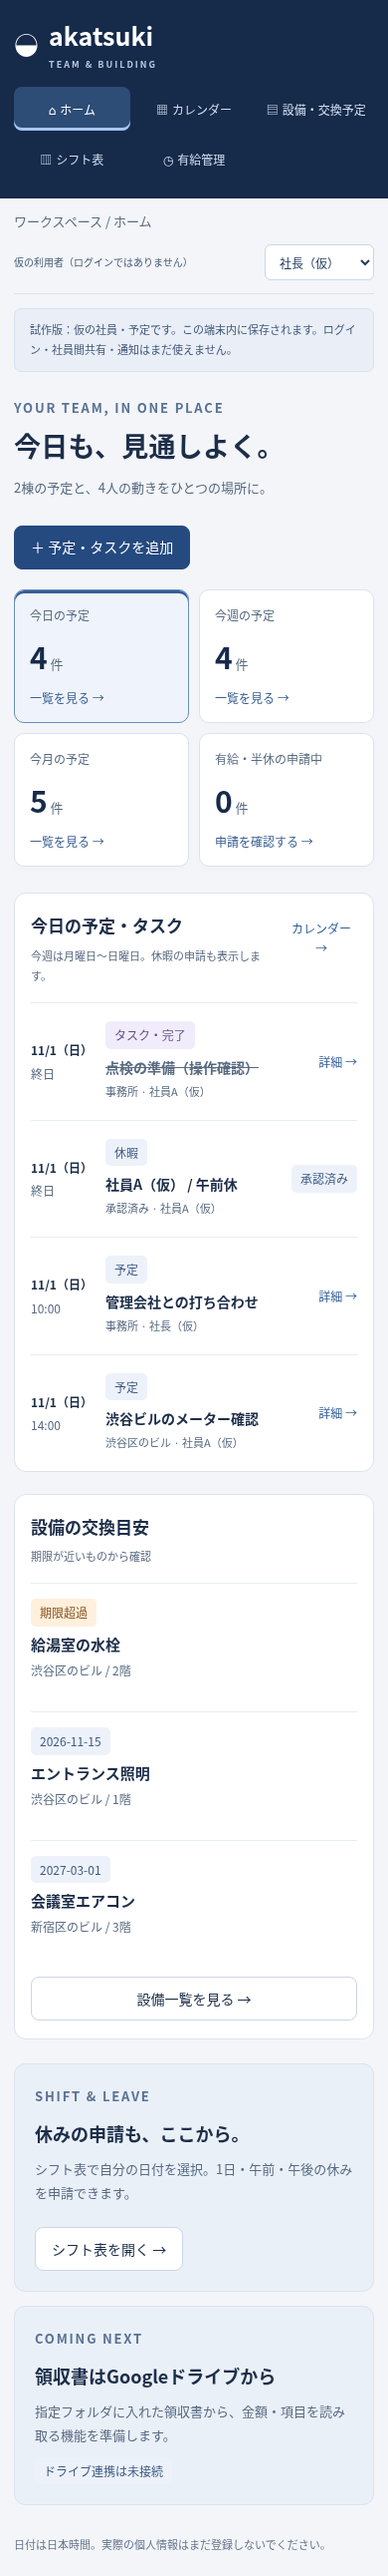
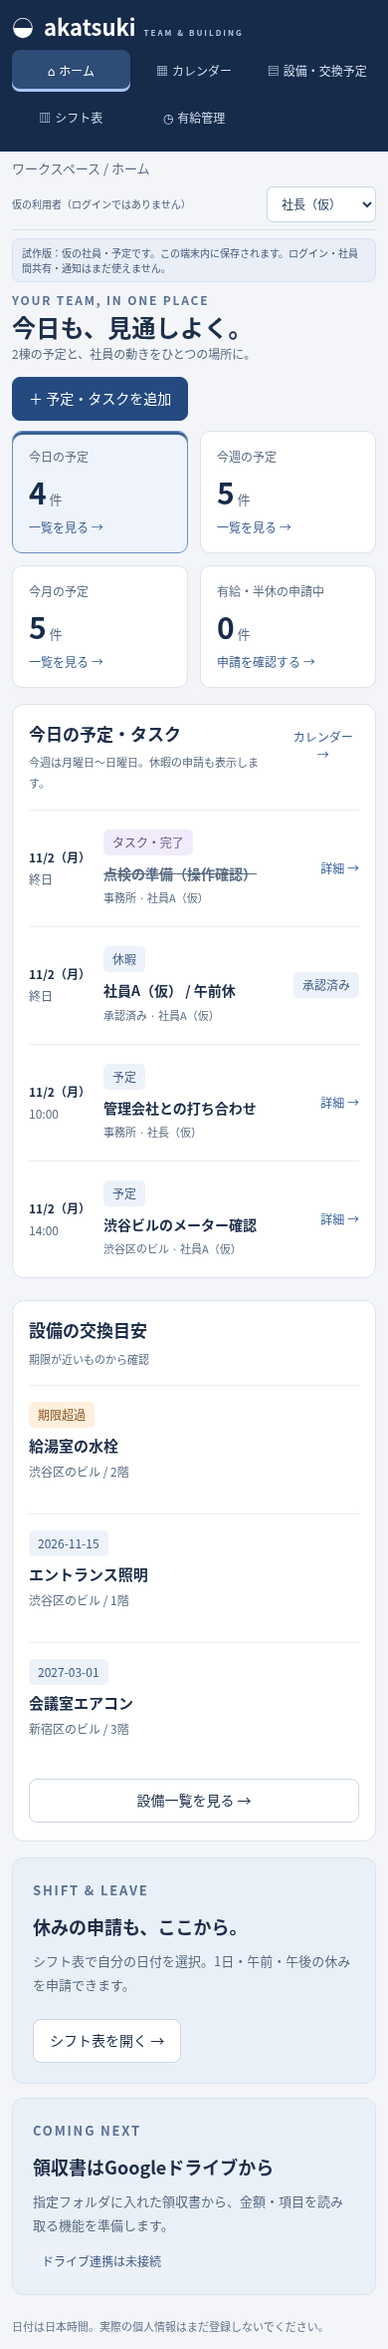
Increase responsive screen information density

diff --git a/src/main.js b/src/main.js
@@ -49,7 +49,7 @@ function leave(){
  return `<section class="heading"><div><p class="eyebrow">PAID LEAVE</p><h1>有給管理</h1><p>シフトの申請を自動で反映。1日休みは1日、午前・午後休は0.5日。</p></div><div class="actions">${isAdmin()?'<button id="grant-settings">付与日数を設定</button>':''}<button id="download-leave">↓ 有給記録をPDF保存</button></div></section><section class="panel"><div class="calendar-toolbar">${monthPicker()}<label>対象者<select id="leave-member" ${isAdmin()?'':'disabled'}>${memberOptions(member)}</select></label></div><p class="help-text">${grant?`管理期間：${grant.start} 〜 ${grant.end}（表示月の1日に適用する期間）`:'表示月に対応する有給日数が未設定です。管理者が設定してください。'}</p><div class="leave-cards">${[['付与日数',grant?.days??'未設定'],['承認済み（予定を含む）',b.approved],['申請中',b.pending],['あと申請できる日数',b.available]].map(([label,value])=>`<div class="card"><span>${label}</span><strong>${value}<small> 日</small></strong></div>`).join('')}</div><p class="help-text">取得済み：${taken}日 / 今後の承認済み：${b.approved-taken}日。残日数は申請中の分も差し引いています。</p>${leaveTable(entries)}</section>${isAdmin()?`<section class="panel section-gap"><div class="panel-title"><div><h2>承認待ちの申請</h2><p>社員全員の申請を、月をまたいで確認できます。</p></div></div>${leaveTable(state.shifts.filter(s=>s.status==='pending'),true)}</section>`:''}<p class="help-text">${shared?'管理者が設定した付与日数を使用します。':'最初の10日は仮の設定です。'}繰越・失効・会社の付与ルールと正式なPDF書式は、確認後に対応します。</p>`;
 }
 function render(){
- document.querySelector('#app').innerHTML=`<aside><a class="brand" href="#" data-nav="home">◒ <span>akatsuki<small>TEAM & BUILDING</small></span></a><div class="workspace">${esc(companyName)}<small>渋谷区・新宿区 / 社員${members.filter(m=>m.active!==0).length}人</small></div><nav aria-label="メインメニュー">${Object.entries(names).map(([key,label])=>`<button data-nav="${key}" class="${view===key?'active':''}" ${view===key?'aria-current="page"':''}>${{home:'⌂',calendar:'▦',equipment:'▤',shifts:'▥',leave:'◷',members:'♙'}[key]} <span>${label}</span></button>`).join('')}<span class="nav-pending">領収書・業者比較 <small>準備中</small></span></nav><div class="side-bottom">日々の仕事を、見通しよく。<small>${shared?'ログインして利用中':'試作版 · クラウド共有は未接続'}</small></div></aside><main><header><span>ワークスペース / ${names[view]}</span>${shared?`<div class="signed-in"><span>${esc(name(actor))}</span><button id="refresh-data">最新に更新</button><button id="signout">ログアウト</button></div>`:`<label class="demo-user">仮の利用者（ログインではありません）<select id="actor">${memberOptions(actor)}</select></label>`}</header><div class="notice">${shared?'ログイン用の開発環境です。データはサーバーに保存します。会社向けの公開・通知・Googleドライブ接続は準備中です。':'試作版：仮の社員・予定です。この端末内に保存されます。ログイン・社員間共有・通知はまだ使えません。'}</div>${storageMessage?`<p role="alert">${esc(storageMessage)}</p>`:''}<div id="view">${view==='equipment'?'':({home,calendar,shifts,leave,members:memberPage}[view])()}</div><p id="page-message" role="status"></p><footer>日付は日本時間。実際の個人情報はまだ登録しないでください。</footer></main><dialog id="modal" aria-labelledby="modal-title"></dialog>`;
+ document.querySelector('#app').innerHTML=`<aside><a class="brand" href="#" data-nav="home">◒ <span>akatsuki<small>TEAM & BUILDING</small></span></a><div class="workspace">${esc(companyName)}<small>渋谷区・新宿区 / 社員${members.filter(m=>m.active!==0).length}人</small></div><nav aria-label="メインメニュー">${Object.entries(names).map(([key,label])=>`<button data-nav="${key}" class="${view===key?'active':''}" ${view===key?'aria-current="page"':''}>${{home:'⌂',calendar:'▦',equipment:'▤',shifts:'▥',leave:'◷',members:'♙'}[key]} <span>${label}</span></button>`).join('')}<span class="nav-pending">領収書・業者比較 <small>準備中</small></span></nav><div class="side-bottom">日々の仕事を、見通しよく。<small>${shared?'ログインして利用中':'試作版 · クラウド共有は未接続'}</small></div></aside><main><header><span>ワークスペース / ${names[view]}</span>${shared?`<div class="signed-in"><span>${esc(name(actor))}</span><button id="refresh-data">最新に更新</button><button id="signout">ログアウト</button></div>`:`<label class="demo-user">仮の利用者（ログインではありません）<select id="actor">${memberOptions(actor)}</select></label>`}</header><div class="notice">${shared?'公開環境で利用中です。予定・設備・シフト・有給はTursoへ保存します。通知・Googleドライブ実接続は準備中です。':'試作版：仮の社員・予定です。この端末内に保存されます。ログイン・社員間共有・通知はまだ使えません。'}</div>${storageMessage?`<p role="alert">${esc(storageMessage)}</p>`:''}<div id="view">${view==='equipment'?'':({home,calendar,shifts,leave,members:memberPage}[view])()}</div><p id="page-message" role="status"></p><footer>日付は日本時間。実際の個人情報はまだ登録しないでください。</footer></main><dialog id="modal" aria-labelledby="modal-title"></dialog>`;
  if(view==='equipment')renderEquipment();
  if(view==='members')bindMembers();
  const actorSelect=document.querySelector('#actor');if(actorSelect)actorSelect.onchange=e=>{actor=e.target.value;leaveMember=actor;render();};

diff --git a/src/style.css b/src/style.css
@@ -8,3 +8,9 @@
 @media(max-width:360px){.month-picker{flex-wrap:wrap}.month-picker input{width:137px}.month-picker #this-month{font-size:12px;padding:8px 7px}.heading .actions{flex-direction:column;align-items:stretch}.event-row .text-button{margin-left:auto}}
 @media(max-width:540px){nav{display:grid;grid-template-columns:repeat(3,minmax(0,1fr));overflow:visible;gap:6px}nav>button{padding:8px 6px;font-size:12px;justify-content:center;gap:4px}}
 .access-shell{min-height:100dvh;background:linear-gradient(135deg,#142746,#243f66);padding:48px 20px;display:flex;flex-direction:column;align-items:center;justify-content:center}.access-brand{color:white;font-size:32px;font-weight:700;line-height:1.5;margin-bottom:30px}.access-brand small{display:block;color:#c3d2e8;font-size:13px;margin-top:8px;font-weight:400}.access-card{background:white;border:1px solid #dce3ed;border-radius:16px;max-width:480px;width:100%;padding:32px;box-shadow:0 20px 60px #07152a40}.access-card h1{font-size:26px}.access-card form{display:grid;gap:16px;margin:24px 0}.access-card a{color:#315f97;font-size:14px;display:inline-block;margin-top:16px}.access-card input{font-size:16px}.access-card .help-text{margin:12px 0}.access-note{color:#c3d2e8;max-width:460px;font-size:12px;margin-top:24px}.button-link{border:1px solid #9bb0ce;padding:10px;border-radius:6px}.signed-in{display:flex;align-items:center;gap:8px;flex-wrap:wrap;font-size:13px}.signed-in button{font-size:12px}.invitation-row{display:flex;align-items:center;justify-content:space-between;gap:12px;padding:15px 0;border-bottom:1px solid #dce3ed;overflow-wrap:anywhere}.invitation-row small{display:block}.invitation-row button{flex-shrink:0}#access-message{color:#9e3434}#invitation-url{width:100%;margin-bottom:16px}@media(max-width:540px){.access-shell{padding:24px 14px}.access-card{padding:24px 20px}.access-card h1{font-size:23px}.signed-in{width:100%}.signed-in>span{flex:1}.invitation-row{flex-wrap:wrap}}
+
+/* Dense workspace layout: keep daily information above the fold without reducing tap targets. */
+:root{line-height:1.5}aside{padding:20px}.brand{font-size:27px}.brand small{margin-top:1px}.workspace{padding:14px 0;margin:18px 0 14px}.workspace small,.side-bottom small{line-height:1.8}nav{gap:4px}nav>button{padding:9px 12px}.nav-pending{padding:12px}.side-bottom{margin-top:28px}header{gap:16px;padding:10px 0;min-height:56px}.notice{padding:7px 12px;margin-top:10px;line-height:1.5}.heading{margin:14px 0 12px;gap:16px}.eyebrow{font-size:10px;margin-bottom:2px}h1{font-size:clamp(24px,2.2vw,32px);margin:1px 0 3px;line-height:1.25}.heading p{line-height:1.55;margin:3px 0}.cards{gap:12px;margin-bottom:16px}.card{padding:16px}.card strong{font-size:30px;margin:4px 0}.calendar-toolbar{gap:14px;padding:12px 16px}.calendar-layout{padding:0 16px 16px}.panel-title{padding-top:16px}.section-gap,.bottom-grid{margin-top:16px}footer{padding:14px 0}
+@media(max-width:1150px){aside{padding:18px 14px}.heading{margin:12px 0}.calendar-day{min-height:92px}}
+@media(max-width:850px){aside{padding:10px 16px}.brand{font-size:23px}.brand small{display:inline;margin-left:8px}.workspace,.side-bottom,.nav-pending{display:none}nav{margin-top:8px}main{padding:0 18px}header{padding:8px 0;min-height:50px}.notice{margin-top:8px}.heading{margin:10px 0}.calendar-toolbar{padding:10px 12px}.calendar-layout{padding:0 12px 12px}}
+@media(max-width:540px){aside{padding:10px 12px}.brand{font-size:22px}.brand small{font-size:8px}nav{margin-top:7px;gap:5px}nav>button{min-height:42px;padding:6px 4px}main{padding:0 12px}header{padding:7px 0;gap:8px}.signed-in button{min-height:40px;padding:7px 10px}.notice{padding:6px 9px;font-size:10px}.heading{margin:9px 0 10px}.heading h1{font-size:24px}.heading p{font-size:12px}.heading>button,.heading>.actions{margin-top:10px}.calendar-toolbar{padding:10px}.calendar-layout{padding:0 8px 10px}.calendar-day,.calendar-blank{min-height:62px}.day-agenda{margin-top:14px;padding-top:14px}}

diff --git a/docs/development-log.md b/docs/development-log.md
@@ -179,3 +179,11 @@
 - ホスト名からHTTPS公開元を組み立てる自動テストを追加。秘密値の再発行や再入力は行わない。
 - Renderのログで初回失敗の直接原因を確認: `NODE_ENV=production` によりdevDependenciesのViteが省略され、`sh: 1: vite: not found`、終了コード127になっていた。
 - Blueprintのビルドを `npm ci --include=dev --no-audit --no-fund && npm run build` へ変更し、公開用画面の作成に必要なViteを明示的にインストールするよう修正した。
+
+## 2026-11-02 公開成功と画面の情報密度改善
+
+- Render Freeの公開URLがLiveになり、初期管理者登録、ログイン、予定保存、再読込後のTurso永続化を実環境で確認した。
+- PC表示のサイドバー、ヘッダー、公開状況、ページ見出し、カード、カレンダー操作欄の余白を縮小した。44px前後の主要タップ領域は維持した。
+- 1440px幅ではカレンダーパネルが画面上端から約236pxで始まり、以前より月表示を大きく画面内へ収めた。280pxより下へ押し出されない回帰検査を追加した。
+- 850px以下は上部ナビゲーションへ切替え、540px以下は3列ナビ、1列操作、選択日の予定一覧を使用する。320、375、390、540、768、1024、1440、1920pxの5画面で横方向のはみ出しがないことを確認した。
+- 公開画面の古い「開発環境」案内を、公開環境・Turso保存・未接続機能が分かる短い表示へ変更した。

diff --git a/docs/requirements.md b/docs/requirements.md
@@ -10,6 +10,8 @@
 ## 表示と日々の予定
 
 - ユーザー指定: ネイビー基調、読みやすいゴシック体。スマホ・タブレット・PCの幅に応じて配置を調整する。
+- PCではヘッダー、案内、見出しをコンパクトにし、1画面に予定やカレンダーを多く表示する。操作ボタンの押しやすさは維持する。
+- タブレットは上部ナビゲーションと折返しレイアウト、スマホは3列ナビゲーションと1列の詳細表示を使い、320〜1920pxで横方向にはみ出さない。
 - ホームで今日・今週・今月の予定とタスク、申請中の有給、設備の交換目安を確認する。
 - 今週は月曜〜日曜、日本時間を基準とする。
 - カレンダーで来客対応・ビル点検・メーター検査などを登録し、日付・時刻（または終日）・担当者・場所・メモ・完了状態を記録する。

diff --git a/docs/引き継ぎ.md b/docs/引き継ぎ.md
@@ -32,6 +32,7 @@
 
 - 設備、カレンダー、シフト、有給申請/承認、PDFの試作。
 - PWAマニフェスト、アプリアイコン、サービスワーカーによるホーム画面追加の土台。
+- 公開環境はRender FreeでLive。初期管理者ログインとTursoへの予定保存・再読込を確認済み。PC上部をコンパクト化し、320〜1920pxのレスポンシブ表示を再検証済み。
 - Better Authによるログイン、管理者招待リンク、本人のパスワード設定、退職者停止とセッション失効。
 - SQLiteによるサーバー共有保存、会社別権限、同時更新の上書き拒否、操作記録。
 - 通常の画面と `?demo=1` の仮データ画面を分離。
